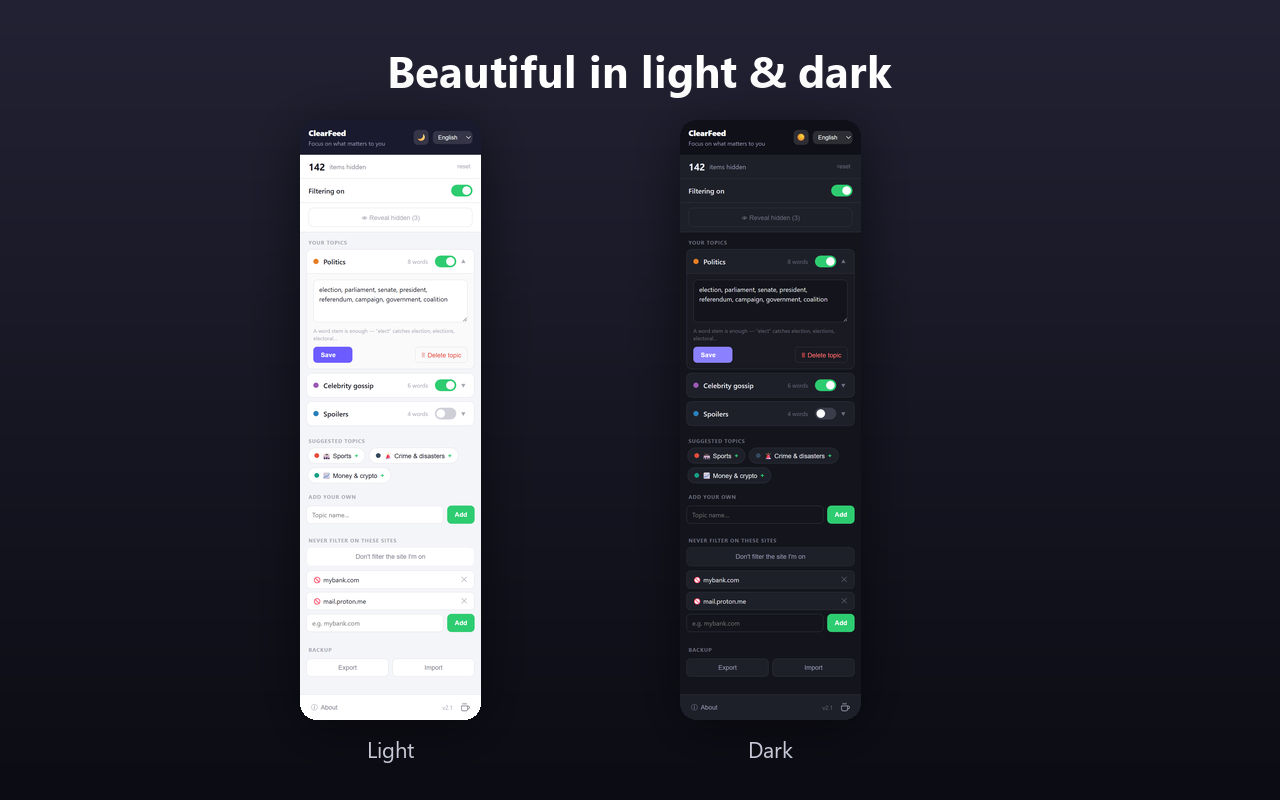
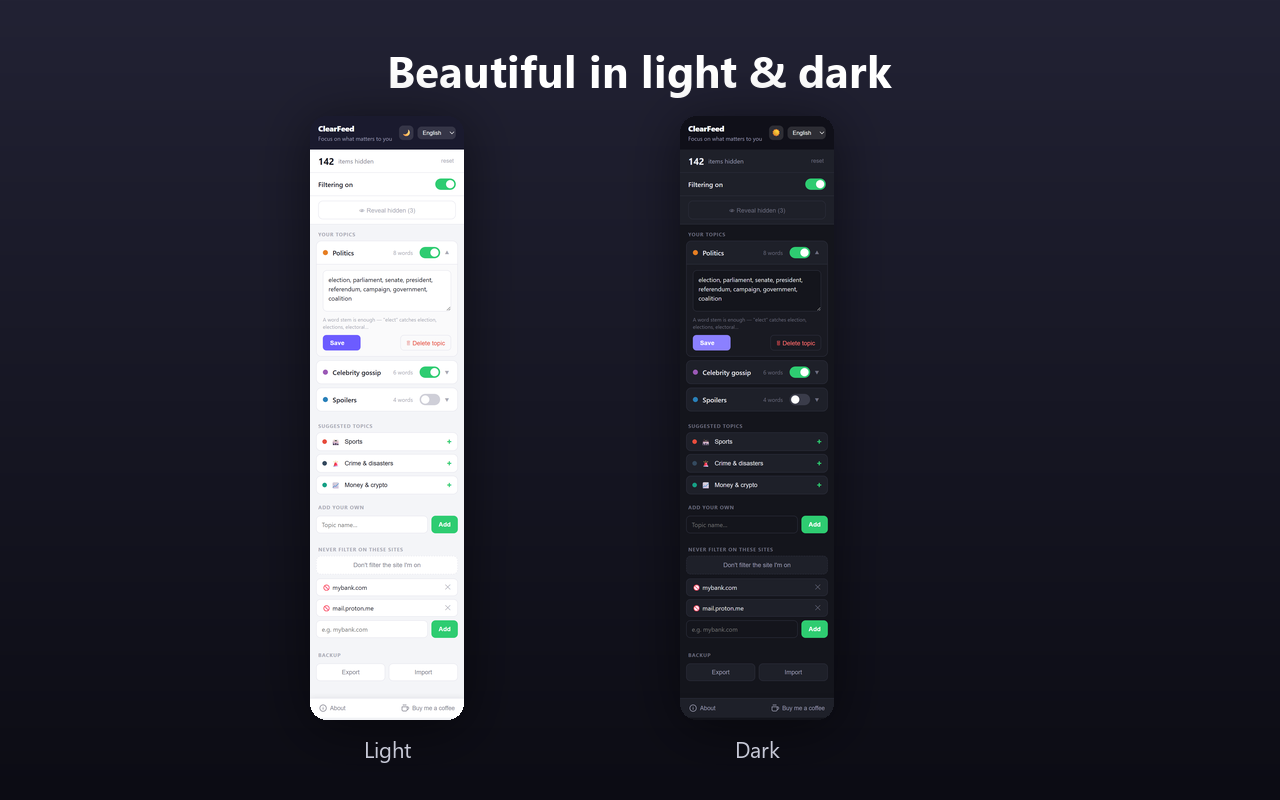
v2.2: language relocalization fix, slim sticky footer, narrower popup, stacked topics
- Fix: switching app language now re-localizes already-added suggested topics (name + words)
  via a language-independent preset id (preset_<topic>); previously older topics kept their
  original language. Hoist PRESET_LANG_SUFFIX so init is order-independent.
- Footer: slimmer + sticky (always visible while scrolling); SVG info icon for About;
  coffee button now labeled "Buy me a coffee"
- Narrower popup (340->300px); suggested topics render as a vertical list of full-width rows
- Bump to 2.2; CHANGELOG; regenerate store screenshots; 22 tests passing

diff --git a/popup.js b/popup.js
@@ -10,6 +10,9 @@ const COLORS = ["#e74c3c","#e67e22","#f39c12","#27ae60","#2980b9","#8e44ad","#16
 const REPO_URL = "https://github.com/Martin8O/ClearFeed";
 const COFFEE_URL = ""; // TODO: paste your "Buy Me a Coffee" URL here to enable the button.
 
+// Preset category ids look like "preset_<topic>"; the "_xx" language suffix is legacy.
+const PRESET_LANG_SUFFIX = /_(en|es|de|fr)$/;
+
 let state = { enabled: true, blockedTotal: 0, categories: [], excludedSites: [], uiLang: "en", theme: "light" };
 
 // --- Init ---
@@ -42,7 +45,6 @@ function pickTheme(stored) {
 
 function setVersion() {
   const v = "v" + (chrome.runtime.getManifest ? chrome.runtime.getManifest().version : "");
-  document.getElementById("version").textContent = v;
   document.getElementById("aboutVer").textContent = v;
 }
 
@@ -107,6 +109,7 @@ function buildLangOptions() {
 
 document.getElementById("langSelect").addEventListener("change", (e) => {
   state.uiLang = e.target.value;
+  const changed = relocalizeCategories(state.uiLang); // keep added topics in one language
   saveSettings();
   applyI18n();
   setMasterToggle(state.enabled);     // refresh localized label
@@ -114,6 +117,7 @@ document.getElementById("langSelect").addEventListener("change", (e) => {
   renderPresets();
   renderExcluded();
   refreshRevealButton();
+  if (changed) broadcastReload();
 });
 
 // --- Master toggle ---
@@ -159,11 +163,19 @@ document.getElementById("newCatName").addEventListener("keydown", (e) => {
 });
 
 // --- Suggested topic presets ---
+// Preset categories use a language-independent id ("preset_<topic>"); the
+// display name + words follow the current UI language and are re-localized when
+// the language changes.
+function presetBaseId(catId) {
+  if (typeof catId !== "string" || catId.indexOf("preset_") !== 0) return null;
+  return catId.slice(7).replace(PRESET_LANG_SUFFIX, "");
+}
+
 function renderPresets() {
   const list = document.getElementById("presetList");
   list.innerHTML = "";
-  const have = new Set(state.categories.map((c) => c.id));
-  const available = getPresets(state.uiLang).filter((p) => !have.has(presetCatId(p.id)));
+  const have = new Set(state.categories.map((c) => presetBaseId(c.id)).filter(Boolean));
+  const available = getPresets(state.uiLang).filter((p) => !have.has(p.id));
 
   if (available.length === 0) {
     list.innerHTML = `<div class="preset-empty">${esc(tr("added"))} ✓</div>`;
@@ -172,19 +184,17 @@ function renderPresets() {
   available.forEach((p) => {
     const chip = document.createElement("button");
     chip.className = "preset-chip";
-    chip.innerHTML = `<span class="pdot" style="background:${p.color}"></span>${esc(p.icon)} ${esc(p.name)} <span class="pplus">+</span>`;
+    chip.innerHTML = `<span class="pdot" style="background:${p.color}"></span>` +
+      `<span class="picon">${esc(p.icon)}</span>` +
+      `<span class="pname">${esc(p.name)}</span><span class="pplus">+</span>`;
     chip.addEventListener("click", () => addPreset(p));
     list.appendChild(chip);
   });
 }
 
-function presetCatId(presetId) {
-  return `preset_${presetId}_${state.uiLang}`;
-}
-
 function addPreset(p) {
   state.categories.push({
-    id: presetCatId(p.id),
+    id: "preset_" + p.id,
     name: p.name,
     enabled: true,
     color: p.color,
@@ -194,6 +204,24 @@ function addPreset(p) {
   renderCategories();
   renderPresets();
   broadcastReload();
+}
+
+// Re-localize preset categories to a language (name + words). Custom categories
+// are left untouched. Returns true if anything changed.
+function relocalizeCategories(lang) {
+  const byId = {};
+  getPresets(lang).forEach((p) => { byId[p.id] = p; });
+  let changed = false;
+  state.categories = state.categories.map((c) => {
+    const base = presetBaseId(c.id);
+    if (base && byId[base]) {
+      const p = byId[base];
+      changed = true;
+      return { id: "preset_" + base, name: p.name, color: p.color, enabled: c.enabled !== false, words: p.words.slice() };
+    }
+    return c;
+  });
+  return changed;
 }
 
 // --- Excluded sites ---

diff --git a/popup.html b/popup.html
@@ -27,7 +27,7 @@
 
     body {
       font-family: system-ui, -apple-system, "Segoe UI", sans-serif;
-      width: 340px;
+      width: 300px;
       background: var(--bg);
       color: var(--text);
       font-size: 13px;
@@ -113,16 +113,17 @@
     }
     .btn-delete:hover { border-color: var(--danger); }
 
-    /* SUGGESTED TOPIC PRESETS */
-    .preset-list { display: flex; flex-wrap: wrap; gap: 7px; padding: 0 14px 6px; }
+    /* SUGGESTED TOPIC PRESETS — vertical list of full-width rows */
+    .preset-list { display: flex; flex-direction: column; gap: 6px; padding: 0 12px 6px; }
     .preset-chip {
-      display: flex; align-items: center; gap: 6px; background: var(--surface);
-      border: 1px solid var(--border); border-radius: 20px; padding: 6px 12px;
-      font-size: 12px; cursor: pointer; color: var(--text); transition: .12s;
+      display: flex; align-items: center; gap: 9px; width: 100%; text-align: left;
+      background: var(--surface); border: 1px solid var(--border); border-radius: 9px;
+      padding: 9px 11px; font-size: 12px; cursor: pointer; color: var(--text); transition: .12s;
     }
     .preset-chip:hover { border-color: var(--accent); background: var(--accent-weak); }
     .preset-chip .pdot { width: 9px; height: 9px; border-radius: 50%; flex-shrink: 0; }
-    .preset-chip .pplus { color: var(--green); font-weight: 700; }
+    .preset-chip .pname { flex: 1; font-weight: 500; }
+    .preset-chip .pplus { color: var(--green); font-weight: 700; font-size: 16px; line-height: 1; }
     .preset-empty { padding: 0 16px 6px; font-size: 11px; color: var(--faint); font-style: italic; }
 
     .add-section { padding: 4px 12px 12px; }
@@ -193,18 +194,20 @@
     .backup-msg.ok { color: var(--green); }
     .backup-msg.err { color: var(--danger); }
 
-    /* FOOTER */
+    /* FOOTER — slim & sticky, always visible */
     .footer {
-      display: flex; align-items: center; gap: 8px; padding: 10px 14px;
-      border-top: 1px solid var(--border); background: var(--surface);
+      position: sticky; bottom: 0; z-index: 5;
+      display: flex; align-items: center; justify-content: space-between; gap: 8px;
+      padding: 6px 10px; border-top: 1px solid var(--border); background: var(--surface);
+      box-shadow: 0 -3px 10px rgba(0,0,0,.05);
     }
     .foot-btn {
       display: inline-flex; align-items: center; gap: 6px; background: none; border: none;
-      color: var(--muted); font-size: 12px; cursor: pointer; padding: 5px 7px; border-radius: 7px; transition: .12s;
+      color: var(--muted); font-size: 11.5px; cursor: pointer; padding: 5px 8px; border-radius: 7px; transition: .12s;
     }
     .foot-btn:hover { color: var(--accent); background: var(--hover); }
-    .foot-btn svg { width: 17px; height: 17px; display: block; }
-    .foot-ver { margin-left: auto; font-size: 11px; color: var(--faint); }
+    .foot-btn svg { width: 15px; height: 15px; display: block; flex-shrink: 0; }
+    .foot-btn.coffee:hover { color: #b8860b; }
 
     /* ABOUT OVERLAY */
     .about-overlay { position: fixed; inset: 0; background: var(--bg); z-index: 50; display: flex; flex-direction: column; padding: 16px 18px 20px; }
@@ -294,13 +297,18 @@
 </div>
 
 <div class="footer">
-  <button class="foot-btn" id="aboutBtn"><span>ⓘ</span> <span data-i18n="about">About</span></button>
-  <span class="foot-ver" id="version"></span>
-  <button class="foot-btn" id="coffeeBtn" title="Buy me a coffee">
+  <button class="foot-btn" id="aboutBtn">
+    <svg viewBox="0 0 24 24" fill="none" stroke="currentColor" stroke-width="2" stroke-linecap="round" stroke-linejoin="round">
+      <circle cx="12" cy="12" r="10"/><line x1="12" y1="11" x2="12" y2="16"/><line x1="12" y1="8" x2="12.01" y2="8"/>
+    </svg>
+    <span data-i18n="about">About</span>
+  </button>
+  <button class="foot-btn coffee" id="coffeeBtn">
     <svg viewBox="0 0 24 24" fill="none" stroke="currentColor" stroke-width="2" stroke-linecap="round" stroke-linejoin="round">
       <path d="M18 8h1a4 4 0 0 1 0 8h-1"/><path d="M2 8h16v9a4 4 0 0 1-4 4H6a4 4 0 0 1-4-4V8z"/>
       <line x1="6" y1="1" x2="6" y2="4"/><line x1="10" y1="1" x2="10" y2="4"/><line x1="14" y1="1" x2="14" y2="4"/>
     </svg>
+    <span data-i18n="coffee">Buy me a coffee</span>
   </button>
 </div>
 

diff --git a/CHANGELOG.md b/CHANGELOG.md
@@ -3,6 +3,21 @@
 All notable changes to ClearFeed are documented here.
 This project adheres to [Semantic Versioning](https://semver.org/).
 
+## [2.2] - 2026-06-24
+
+### Fixed
+- Switching the app language now **re-localizes already-added suggested topics** (name and
+  words) so everything stays in one language. Previously a topic added in one language kept
+  that language after switching. (Editing a topic's words and then switching language re-seeds
+  them for the new language.)
+
+### Changed
+- **Narrower popup** and a tidier layout.
+- **Suggested topics are now a vertical list** of full-width rows (easier to scan) instead of
+  wrapped chips.
+- **Slimmer, sticky footer** that stays visible while scrolling; clearer About (info icon) and
+  a labeled "Buy me a coffee" button.
+
 ## [2.1] - 2026-06-24
 
 ### Added